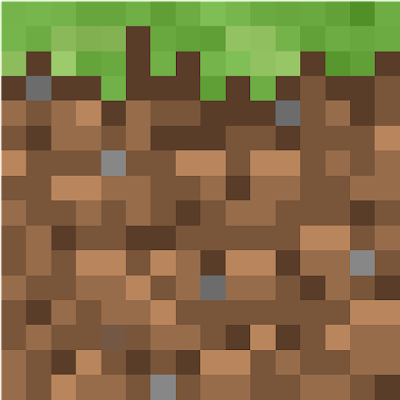
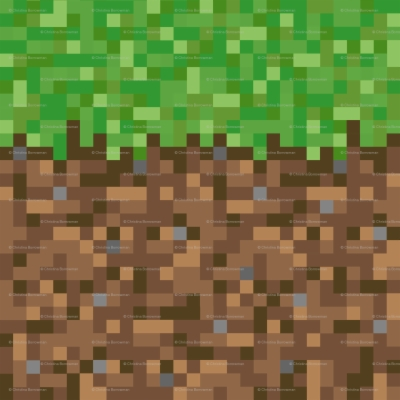
toolBar style and content done

diff --git a/css/style.css b/css/style.css
@@ -28,22 +28,12 @@ body {
   cursor: pointer;
 }
 
-/* #game {
-  height: 100vh;
-} */
-
 #world {
   height: 85vh;
   display: grid;
   grid-template-rows: repeat(20, 1fr);
   grid-template-columns: repeat(30, 1fr);
   background: #87ceeb; /*#38B0DE*/
-}
-
-#toolBar {
-  height: 15vh;
-  background: gray;
-  border-top: 4px solid black;
 }
 
 /*! World Blocks */
@@ -54,7 +44,7 @@ body {
 }
 
 .grass {
-  background: url('../img/worldBlocks/grass2.png') no-repeat center center/cover;
+  background: url('../img/worldBlocks/grass.png') no-repeat center center/cover;
   width: 100%;
   height: 100%;
 }
@@ -81,4 +71,42 @@ body {
   background: white;
   width: 100%;
   height: 100%;
+}
+
+/*! ToolBar*/
+
+img {
+  width: 50px;
+  height: 50px;
+}
+
+#toolBar {
+  height: 15vh;
+  background: gray;
+  border-top: 4px solid black;
+  display: flex;
+  justify-content: center;
+  align-items: center;
+  gap: 1rem;
+}
+
+#toolBar button {
+  /* width: 100px;
+  height: 50px; */
+  padding: 1rem 4rem;
+}
+
+#toolBar button:hover {
+  cursor: pointer;
+}
+
+#inventory {
+  display: flex;
+}
+
+#inventory div{
+  width: 100px;
+  height: 100px;
+  background: #fff;
+  margin-right: 10px;
 }

diff --git a/index.html b/index.html
@@ -17,6 +17,27 @@
     <div id="world">
     </div>
     <div id="toolBar">
+      <!-- <div>
+        <img src="./img/tools/pickaxe.png" alt="">
+      </div>
+      <div>
+        <img src="./img/tools/axe.png" alt="">
+      </div>
+      <div>
+        <img src="./img/tools/shovel.png" alt="">
+      </div> -->
+      <button><img src="./img/tools/pickaxe.png" alt=""></button>
+      <button><img src="./img/tools/axe.png" alt=""></button>
+      <button><img src="./img/tools/shovel.png" alt=""></button>
+      <button id="inventoryBtn">Inventory</button>
+      <div id="inventory">
+        <div></div>
+        <div></div>
+        <div></div>
+        <div></div>
+        <div></div>
+      </div>
+      <button>Reset</button>
     </div>
   </div>
   <script src="./app.js"></script>
